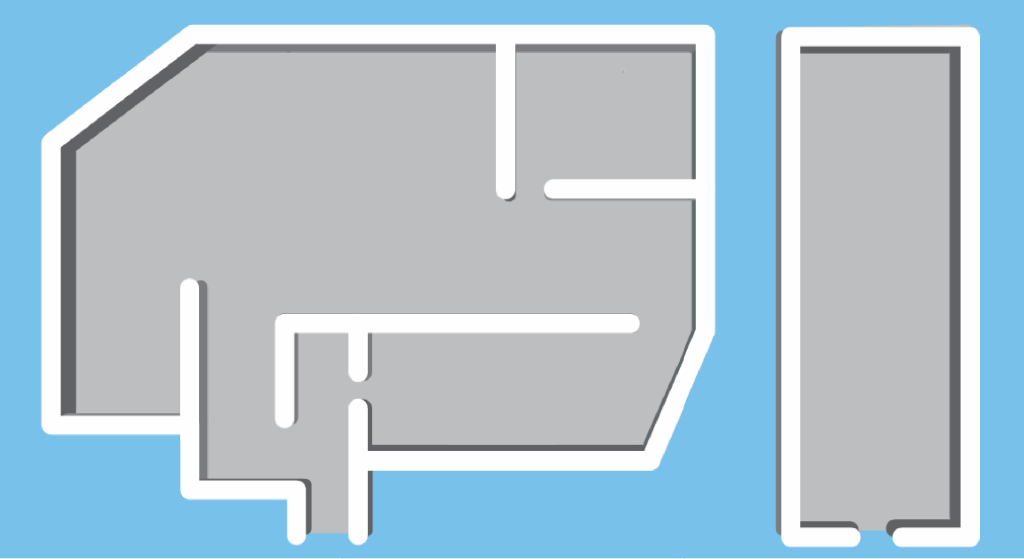
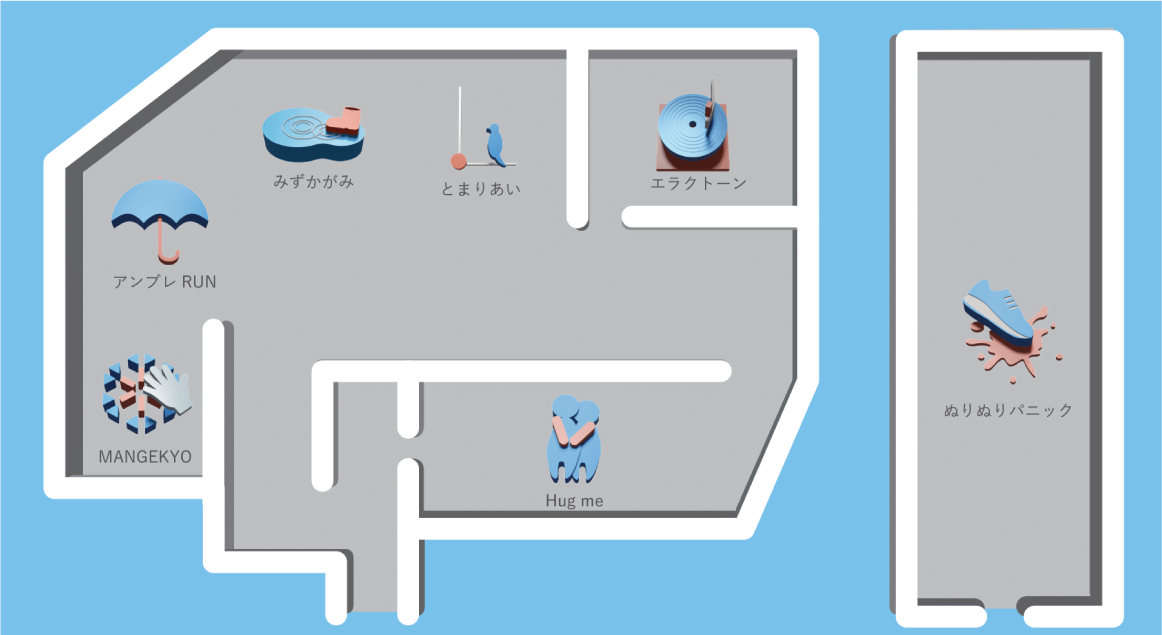
キャプション画像を追加、掲載写真のアスペクト比を修正

diff --git a/index.html b/index.html
@@ -33,12 +33,16 @@
   <body onload="init()">
     <body>
       <main>
-        <div class="mainbox">
-          <div class="main_visual">
-            <img src="img/main-visual.png" />
-          </div>
+        <div class="main_visual">
+          <img src="img/main-visual.png" />
         </div>
-        <div class="mainbox" id="abstract">
+        <div
+          class="mainbox"
+          id="abstract"
+          data-sal="slide-up"
+          data-sal-duration="400"
+          data-sal-delay="30"
+        >
           <div class="wrapper">
             <h2 class="font_bold">「、」と「。」展 (くとうてん)</h2>
 
@@ -114,50 +118,50 @@
                 <area
                   shape="rect"
                   coords="62,281,180,415"
-                  href="img/pop-blow.png"
-                  alt=""
+                  href="img/exhibition/pop-TRYAngle.png"
+                  alt="チーム トライあんぐるの展示、「万華鏡」"
                   data-fancybox="gallery"
                 />
                 <area
                   shape="rect"
                   coords="96,125,215,258"
-                  href="img/pop-color.png"
-                  alt=""
+                  href="img/exhibition/pop-yuutsu.png"
+                  alt="チーム 憂鬱部クリエイターズの展示、「アンブレラン」"
                   data-fancybox="gallery"
                 />
                 <area
                   shape="rect"
                   coords="241,45,362,198"
-                  href="img/pop-control.png"
-                  alt=""
+                  href="img/exhibition/pop-airplane.png"
+                  alt="チーム かみひこうきの展示、「みずかがみ」"
                   data-fancybox="gallery"
                 />
                 <area
                   shape="rect"
                   coords="372,45,495,196"
-                  href="img/pop-link.png"
-                  alt=""
+                  href="img/exhibition/pop-Tam-Tam.png"
+                  alt="チーム タムタムの展示、「とまりあい」"
                   data-fancybox="gallery"
                 />
                 <area
                   shape="rect"
                   coords="516,45,695,181"
                   href="img/pop-memory.png"
-                  alt=""
+                  alt="チーム 124の展示、「エラクトーン」"
                   data-fancybox="gallery"
                 />
                 <area
                   shape="rect"
                   coords="371,333,643,449"
-                  href="img/pop-blow.png"
-                  alt=""
+                  href="img/exhibition/pop-shiomiso.png"
+                  alt="チーム しおみその展示、「はぐみー！」"
                   data-fancybox="gallery"
                 />
                 <area
                   shape="rect"
                   coords="801,47,961,526"
                   href="img/pop-color.png"
-                  alt=""
+                  alt="チーム Uターンラッシュの展示、「ぬりぬりぱにっく！」"
                   data-fancybox="gallery"
                 />
               </map>

diff --git a/css/style.css b/css/style.css
@@ -113,7 +113,7 @@ a:visited {
 
 .content {
   width: 100%;
-  margin: 1em;
+  /* PC版用のレイアウトのみ margin 1em */
 }
 
 /* pc版 */
@@ -231,6 +231,10 @@ a:visited {
 
   #access .wrapper_exptitle {
     display: flex;
+  }
+
+  .content {
+    margin: 1em;
   }
 }
 
